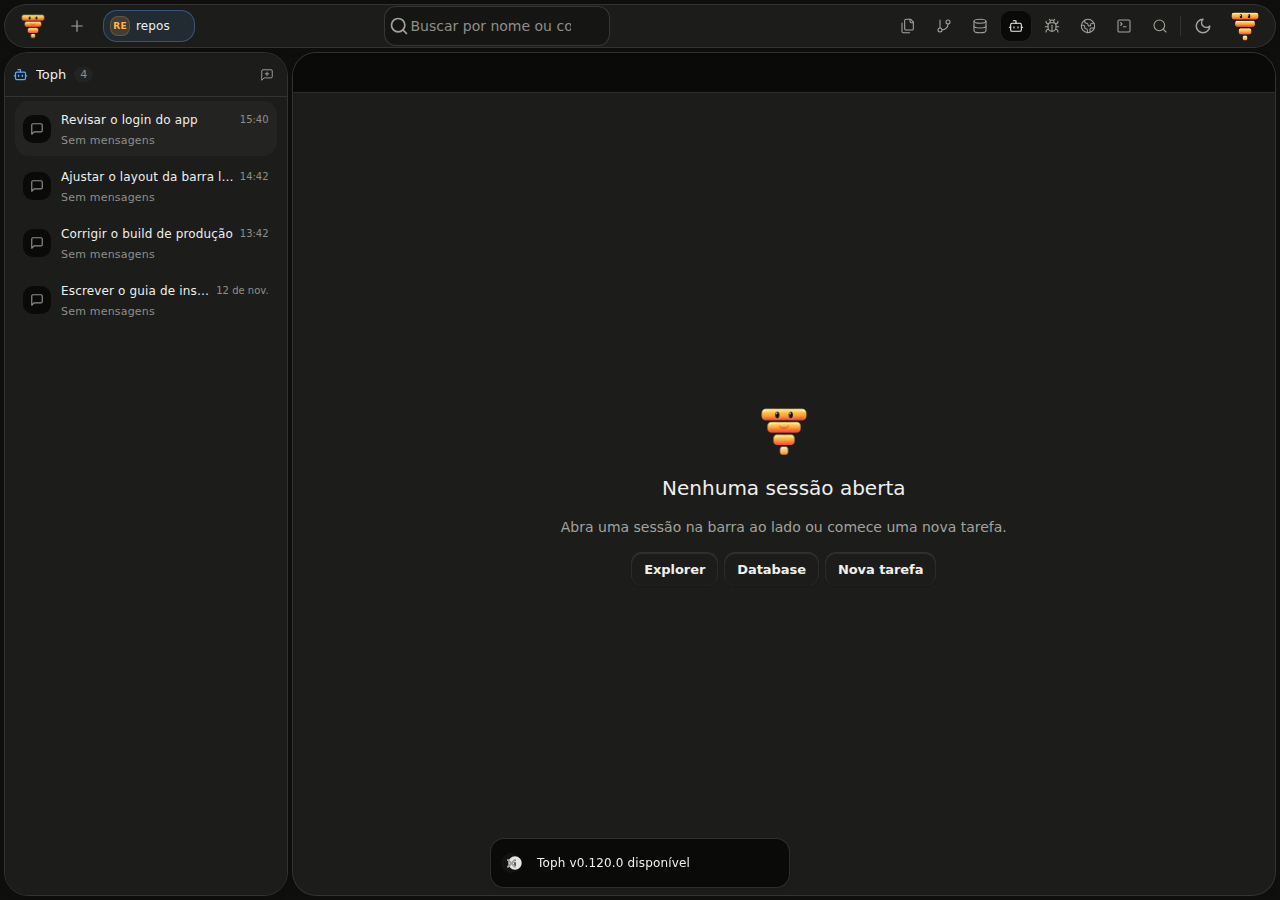
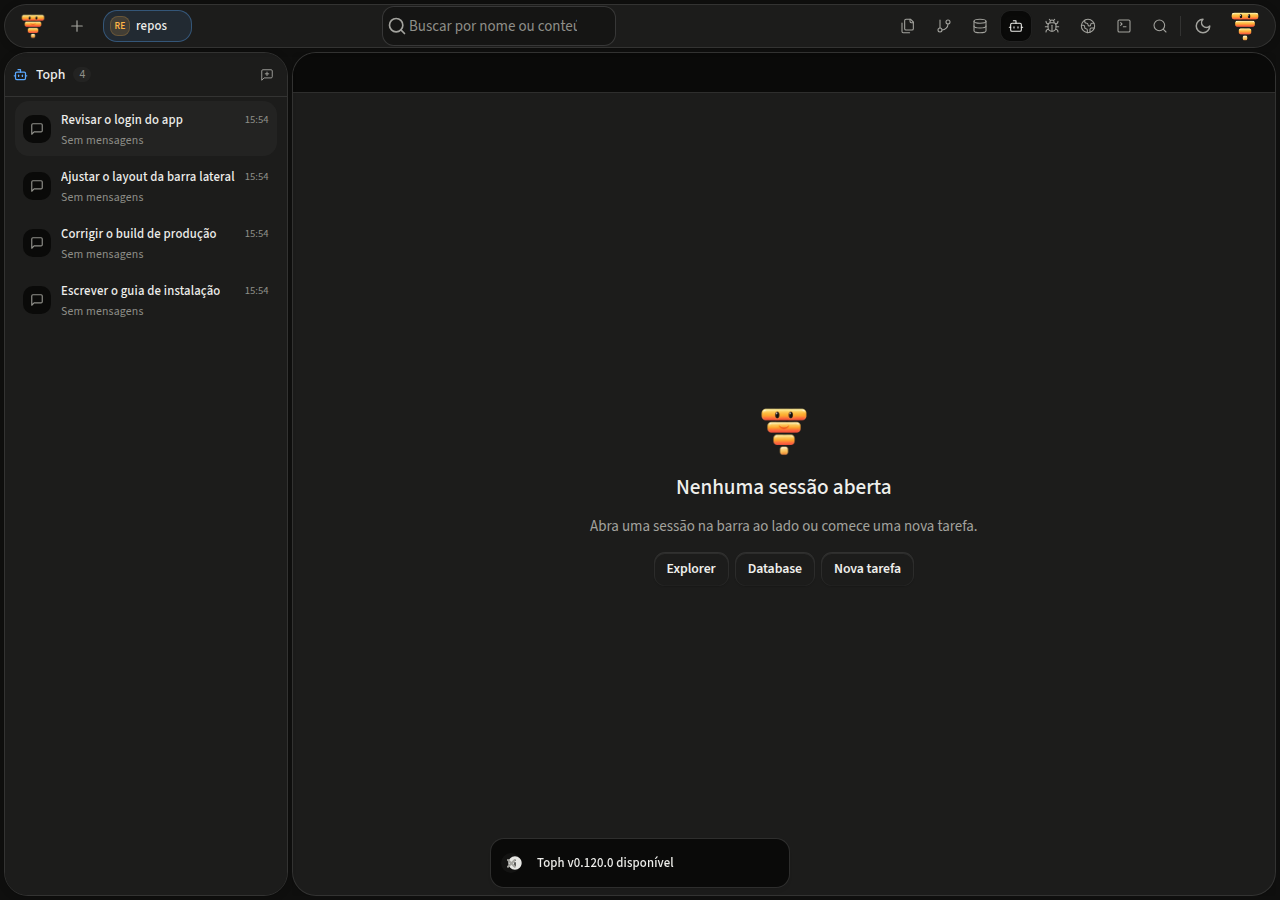
fix(ui): load the app's Source Sans 3 and JetBrains Mono faces
The Tophs kit defaults to Onest/Martian, but the app reads in Source Sans 3 with JetBrains Mono for code. Import those faces, advertise the kit's Funnel Display/Doto faces, set font-size-adjust, and refresh the screenshots.

diff --git a/web/src/index.css b/web/src/index.css
@@ -11,6 +11,13 @@
 /* Toph aliases the app tokens so every screen reads one palette. */
 :root {
   --radius: 0.625rem;
+  /* The Tophs app face: Source Sans 3, with JetBrains Mono for code. */
+  --font-display: var(--font-sans);
+  --font-display-weight: 600;
+  --font-size-adjust: 0.52;
+  --title-cap-mid: 1.19px;
+  --font-brand: "Funnel Display", var(--font-sans);
+  --font-dot: "Doto", var(--font-mono);
   --text-on-accent: #1c1204;
   --safe-top: max(var(--native-safe-top, 0px), env(safe-area-inset-top, 0px));
   --safe-bottom: max(var(--native-safe-bottom, 0px), env(safe-area-inset-bottom, 0px));
@@ -120,8 +127,8 @@
 }
 
 @theme inline {
-  --font-sans: "Onest", "Segoe UI", system-ui, sans-serif;
-  --font-mono: "Martian Mono", ui-monospace, Menlo, monospace;
+  --font-sans: "Source Sans 3 Variable", "Source Sans 3", "Segoe UI", system-ui, sans-serif;
+  --font-mono: "JetBrains Mono Variable", "JetBrains Mono", ui-monospace, Menlo, monospace;
   --color-background: var(--background);
   --color-foreground: var(--foreground);
   --color-card: var(--card);
@@ -173,6 +180,8 @@
     @apply bg-background text-foreground antialiased;
     margin: 0;
     overflow: hidden;
+    font-family: var(--font-sans);
+    font-size-adjust: var(--font-size-adjust, none);
     font-variant-ligatures: contextual;
     font-kerning: normal;
   }
@@ -316,6 +325,9 @@
   --color-segmented-control-background: var(--sunken);
   --color-segmented-control-selected-background: var(--raised);
   --color-notification-center-background: var(--raised);
+  --font-sans: "Source Sans 3 Variable", "Source Sans 3", "Segoe UI", system-ui, sans-serif;
+  --font-mono: "JetBrains Mono Variable", "JetBrains Mono", ui-monospace, Menlo, monospace;
+  --font-size-adjust: 0.52;
 }
 
 

diff --git a/web/src/fonts.css b/web/src/fonts.css
@@ -1,0 +1,37 @@
+/* Self-hosted display fonts (no requests to Google): Funnel Display for the logo and headings, Doto for rare special moments (the ".chat" of the wordmark, a hero number). */
+@font-face {
+  font-family: "Funnel Display";
+  font-style: normal;
+  font-weight: 300 800;
+  font-display: swap;
+  src: url("./fonts/funnel-display-latin-ext.woff2") format("woff2");
+  unicode-range:
+    U+0100-02BA, U+02BD-02C5, U+02C7-02CC, U+02CE-02D7, U+02DD-02FF, U+0304, U+0308, U+0329, U+1D00-1DBF, U+1E00-1E9F, U+1EF2-1EFF, U+2020, U+20A0-20AB, U+20AD-20C4, U+2113, U+2C60-2C7F, U+A720-A7FF;
+}
+@font-face {
+  font-family: "Funnel Display";
+  font-style: normal;
+  font-weight: 300 800;
+  font-display: swap;
+  src: url("./fonts/funnel-display-latin.woff2") format("woff2");
+  unicode-range:
+    U+0000-00FF, U+0131, U+0152-0153, U+02BB-02BC, U+02C6, U+02DA, U+02DC, U+0304, U+0308, U+0329, U+2000-206F, U+20AC, U+2122, U+2191, U+2193, U+2212, U+2215, U+FEFF, U+FFFD;
+}
+@font-face {
+  font-family: "Doto";
+  font-style: normal;
+  font-weight: 100 900;
+  font-display: swap;
+  src: url("./fonts/doto-latin-ext.woff2") format("woff2");
+  unicode-range:
+    U+0100-02BA, U+02BD-02C5, U+02C7-02CC, U+02CE-02D7, U+02DD-02FF, U+0304, U+0308, U+0329, U+1D00-1DBF, U+1E00-1E9F, U+1EF2-1EFF, U+2020, U+20A0-20AB, U+20AD-20C4, U+2113, U+2C60-2C7F, U+A720-A7FF;
+}
+@font-face {
+  font-family: "Doto";
+  font-style: normal;
+  font-weight: 100 900;
+  font-display: swap;
+  src: url("./fonts/doto-latin.woff2") format("woff2");
+  unicode-range:
+    U+0000-00FF, U+0131, U+0152-0153, U+02BB-02BC, U+02C6, U+02DA, U+02DC, U+0304, U+0308, U+0329, U+2000-206F, U+20AC, U+2122, U+2191, U+2193, U+2212, U+2215, U+FEFF, U+FFFD;
+}

diff --git a/web/src/main.tsx b/web/src/main.tsx
@@ -1,12 +1,9 @@
 import React from "react";
+import "@fontsource-variable/source-sans-3";
+import "@fontsource-variable/jetbrains-mono";
 import "@fontsource-variable/onest";
-import "@fontsource-variable/martian-mono";
-import "@fontsource/inter/400.css";
-import "@fontsource/inter/500.css";
-import "@fontsource/inter/600.css";
-import "@fontsource/inter/700.css";
 import ReactDOM from "react-dom/client";
-import "@fontsource/ibm-plex-mono";
+import "./fonts.css";
 import "./index.css";
 import { initAppearance } from "./features/settings/store";
 import { ConfirmProvider } from "./shared/ui/confirm";

diff --git a/web/src/features/editor/themes.ts b/web/src/features/editor/themes.ts
@@ -2,7 +2,7 @@ import type { Monaco } from "@monaco-editor/react";
 import type { editor } from "monaco-editor";
 import type { Theme } from "../settings/store";
 
-export const CODE_FONT_FAMILY = "'IBM Plex Mono', ui-monospace, SFMono-Regular, Menlo, monospace";
+export const CODE_FONT_FAMILY = "'JetBrains Mono Variable', 'JetBrains Mono', ui-monospace, SFMono-Regular, Menlo, monospace";
 
 export function codeLineHeight(fontSize: number): number {
   return Math.round(fontSize * 1.35);
